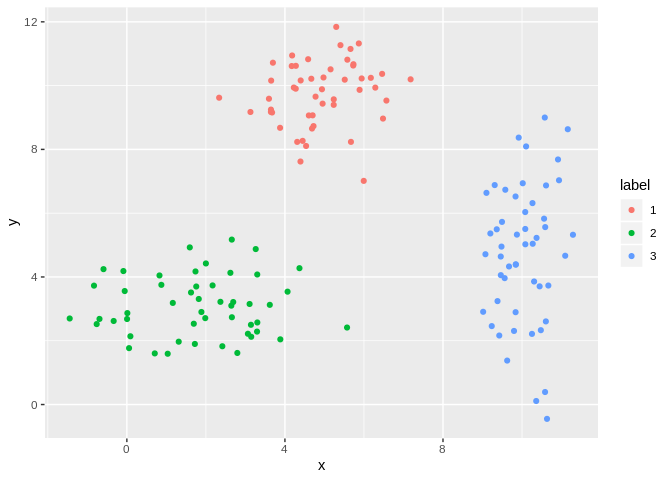
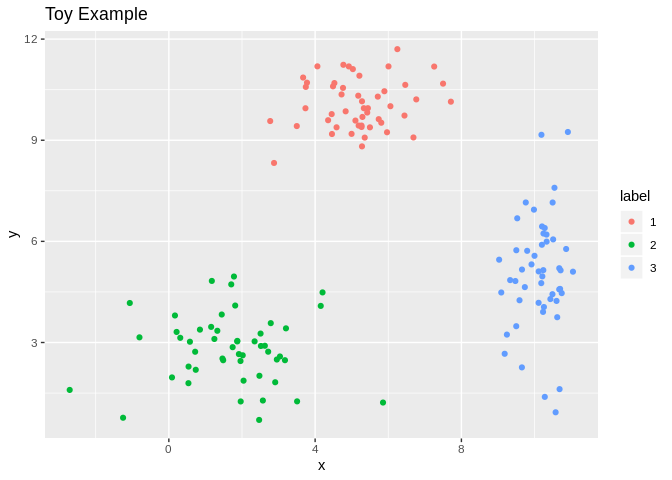
Add files via upload

diff --git a/projects/kmeans_intro/index.md b/projects/kmeans_intro/index.md
@@ -1,14 +1,8 @@
----
-layout: projects
-
----
-
 **Introduction to K-Means Clustering**
 ======================================
 
 <p style="text-align:center;">
 <em>Kenny Lov</em><br><br>
-
 </p>
 First, let's used a contrived *toy* example to better understand this topic. k-means clustering works better if the clusters are spherical and normally distributed. For this example, we'll create a small, arbitrary dataset with 5 different clusters (5 populations with different means and variances).
 
@@ -36,14 +30,14 @@ Now that we've created this *toy* dataset, let's visualize it and confirm that w
 library(ggplot2)
 
 g <- ggplot(combined, aes(x= x, y = y)) +
-  geom_point(aes(color=label)) 
+  geom_point(aes(color=label)) +
+  labs(title = "Toy Example")
 # note that label needs to be converted into a factor since otherwise ggplot will interpret it as a continuous variable when it really isn't!
-
 g
 ```
 
 ![](images/unnamed-chunk-4-1.png)
 
-Yes, there are indeed distinct clusters!
+Yes, there are indeed distinct clusters! R already comes with a great built-in function `kmeans` that can compute clusters. However, for the sake of understanding, we'll hand-code a function that can determine *n* clusters.
 
 Now, since this is a *boring* example, let 's use a more interesting dataset!
